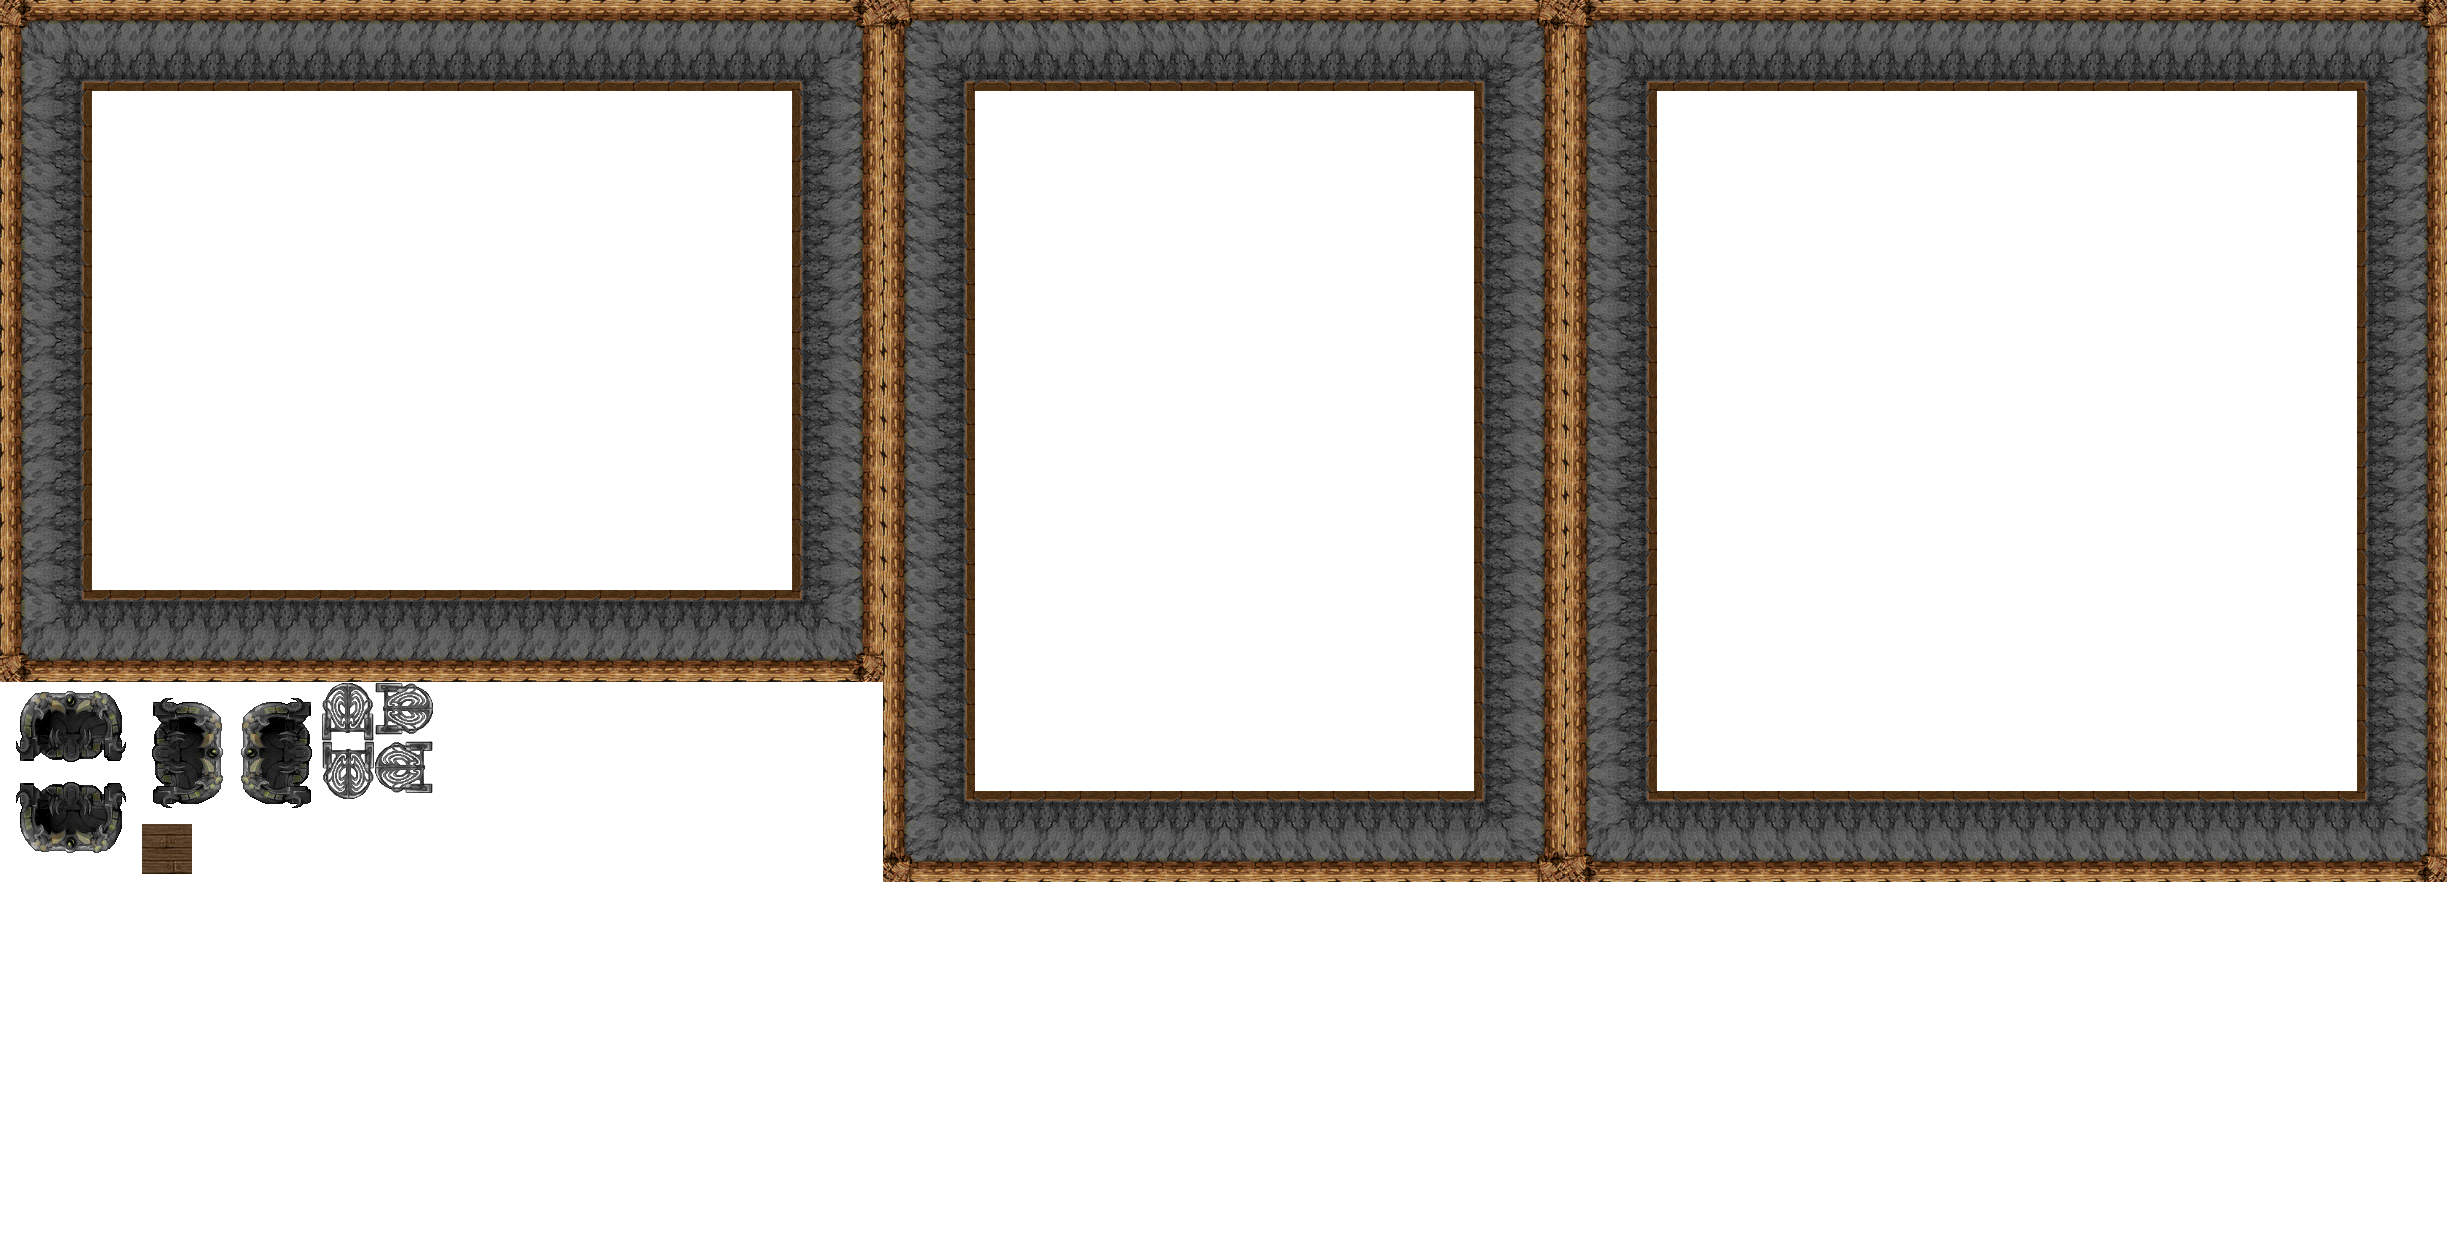
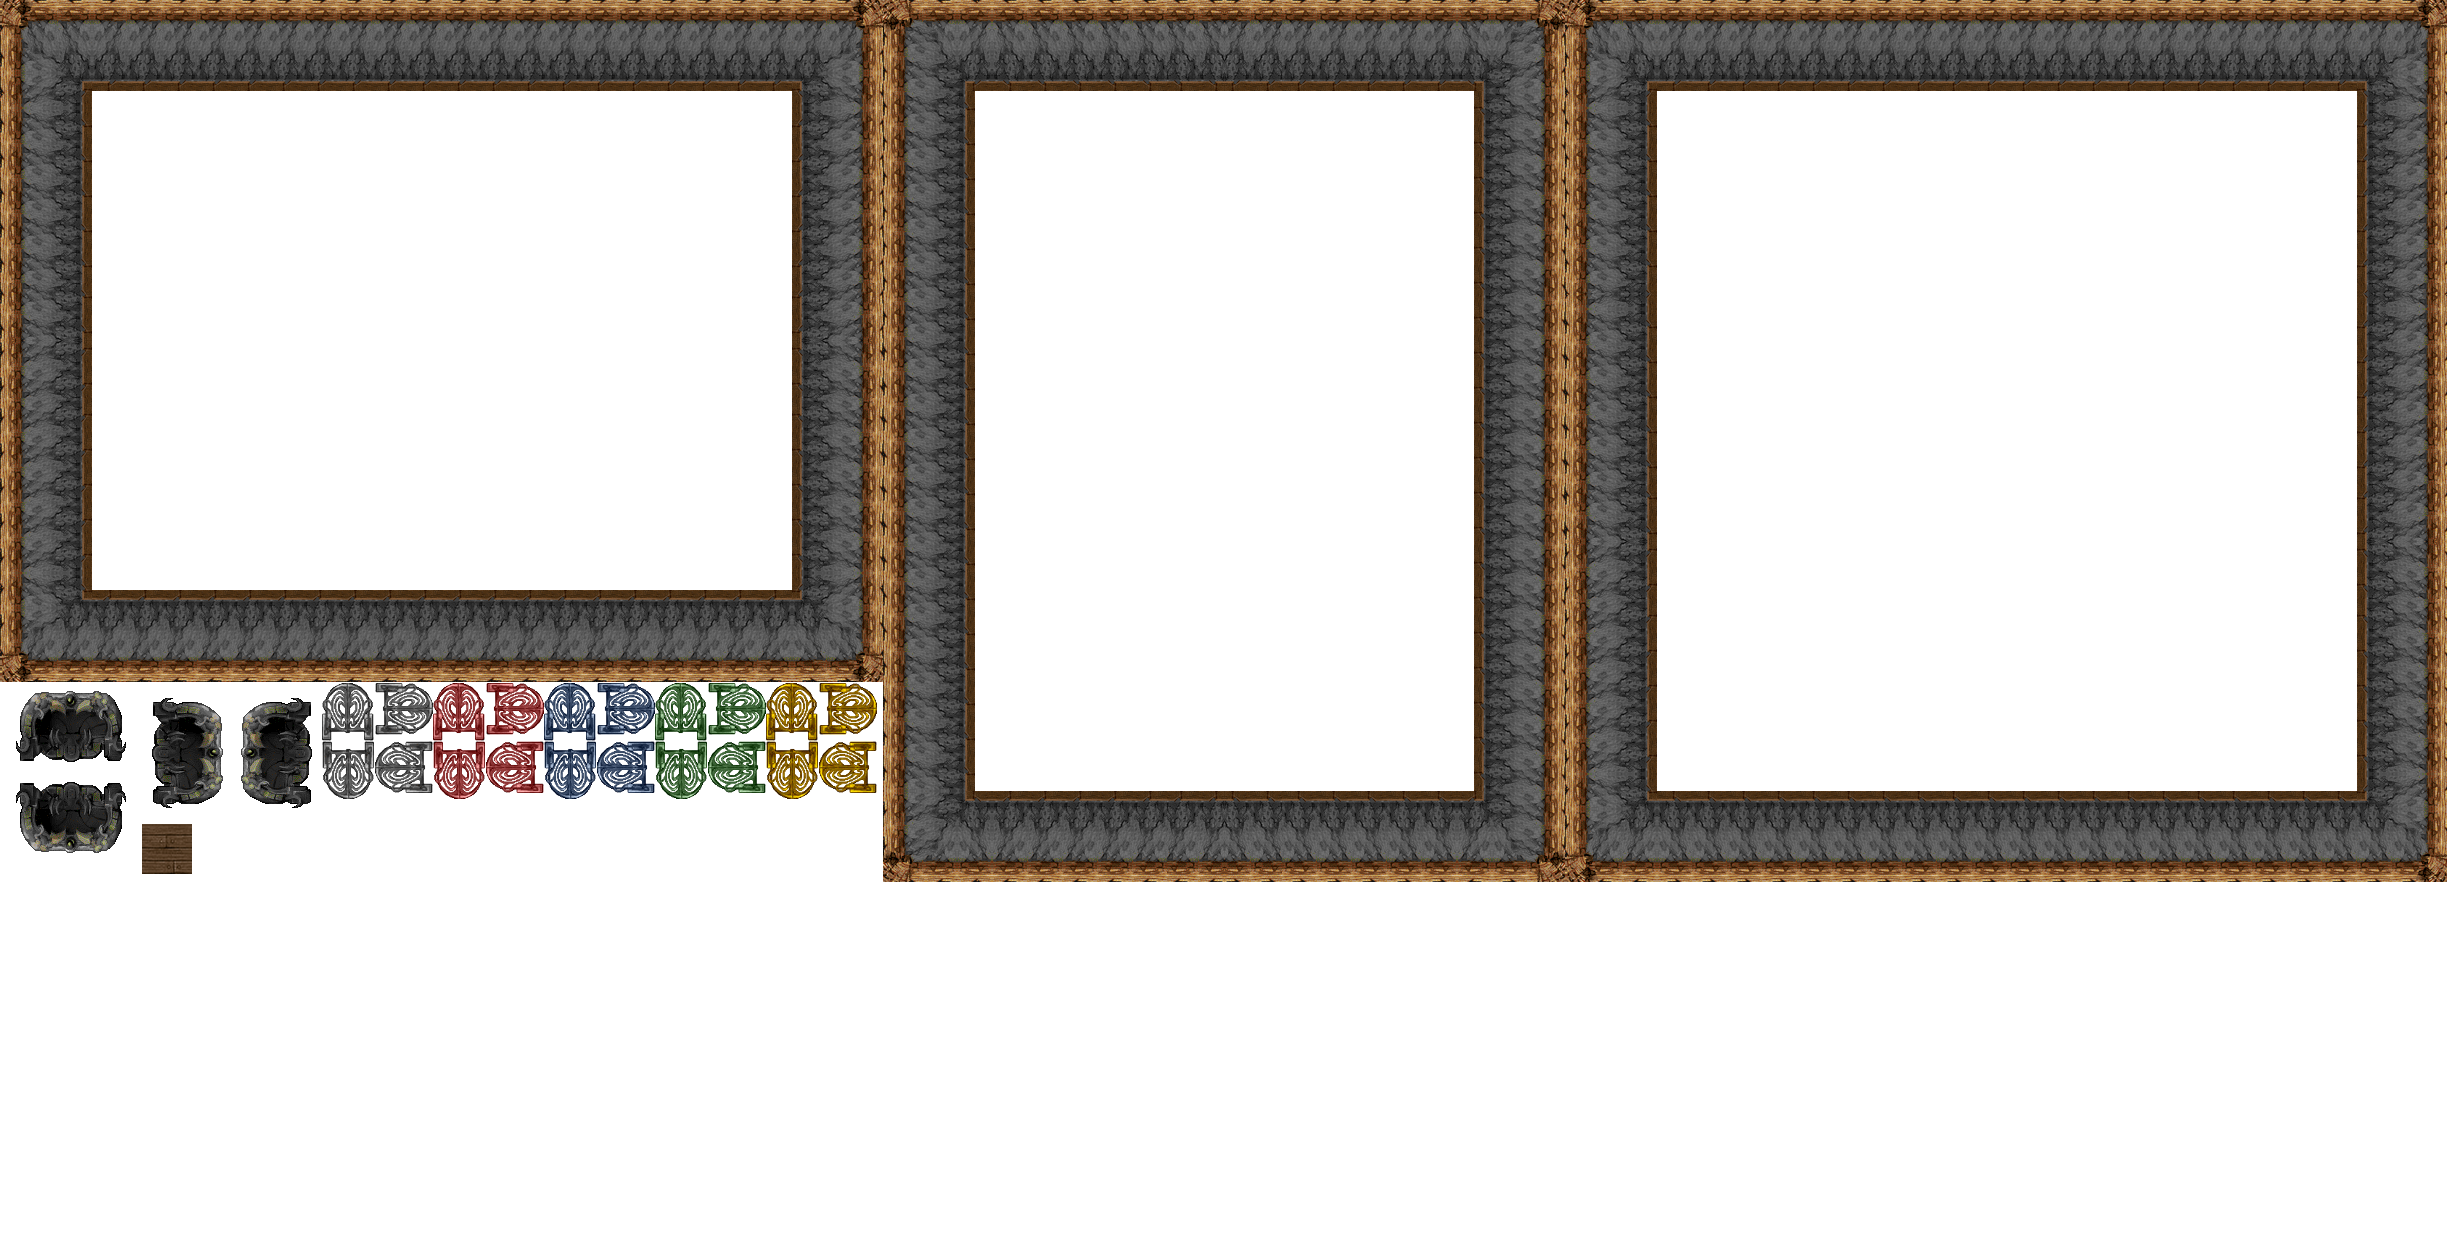
koukou

Changed region(s): [[0.1552, 0.5312, 0.3725, 0.6562]]

diff --git a/public_html/files/javascript/canvas.draw.js b/public_html/files/javascript/canvas.draw.js
@@ -20,34 +20,17 @@ function drawMap(map) {
     roomX = Game.canvas.width / 2 - (map[player.room].width / 2);
     roomY = Game.canvas.height / 2 - (map[player.room].height / 2);
     player.roomInfo = [roomX, roomY, map[player.room].width, map[player.room].height];
-    Game.context.beginPath();
-    Game.context.rect(roomX, roomY, map[player.room].width, map[player.room].height);
+
+    //Game.context.beginPath();
+    //Game.context.rect(roomX, roomY, map[player.room].width, map[player.room].height);
     map[player.room].objects.forEach(function(entry) {
-        Game.context.beginPath();
+        //Game.context.beginPath();
         Game.context.drawImage(ImagesSprites[entry.type], entry.x, entry.y, entry.width, entry.height);
     });
     map[player.room].doors.forEach(function(entry) {
-        Game.context.beginPath();
-        var x = 0;
-        var y = 0;
-        switch (entry.color) {
-            case RED:
-                Game.context.fillStyle = "#b20000";
-                break;
-            case BLUE:
-                Game.context.fillStyle = "#96CDCD";
-                break;
-            case GREEN:
-                Game.context.fillStyle = "#458B00";
-                break;
-            case YELLOW:
-                Game.context.fillStyle = "yellow";
-                break;
-            case null:
-                Game.context.fillStyle = "white";
-                break;
-        }
-
+        //Game.context.beginPath();
+        // var x = 0;
+        // var y = 0;
         var lock = {
             'height': 58,
             'width': 53
@@ -65,10 +48,24 @@ function drawMap(map) {
                  Game.context.rect(entry.x, entry.y, entry.width, entry.height);
                  Game.context.fill();
                  */
-
                 if (entry.lock) {
-                    Game.context.drawImage(Images['border_door_ground'], 322, 683, lock.width, lock.height, entry.x + (lock.width / 2), entry.y - (lock.height / 2) - 5, lock.width, lock.height);
-
+                    switch (entry.color) {
+                        case RED:
+                            Game.context.drawImage(Images['border_door_ground'], 433, 683, lock.width, lock.height, entry.x + (lock.width / 2), entry.y - (lock.height / 2) - 5, lock.width, lock.height);
+                            break;
+                        case BLUE:
+                            Game.context.drawImage(Images['border_door_ground'], 544, 683, lock.width, lock.height, entry.x + (lock.width / 2), entry.y - (lock.height / 2) - 5, lock.width, lock.height);
+                            break;
+                        case GREEN:
+                            Game.context.drawImage(Images['border_door_ground'], 655, 683, lock.width, lock.height, entry.x + (lock.width / 2), entry.y - (lock.height / 2) - 5, lock.width, lock.height);
+                            break;
+                        case YELLOW:
+                            Game.context.drawImage(Images['border_door_ground'], 766, 683, lock.width, lock.height, entry.x + (lock.width / 2), entry.y - (lock.height / 2) - 5, lock.width, lock.height);
+                            break;
+                        case null:
+                            Game.context.drawImage(Images['border_door_ground'], 322, 683, lock.width, lock.height, entry.x + (lock.width / 2), entry.y - (lock.height / 2) - 5, lock.width, lock.height);
+                            break;
+                    }
                     /*
                      Game.context.beginPath();
                      Game.context.rect(x + 7, y - 48, 5, 48);
@@ -80,20 +77,33 @@ function drawMap(map) {
                 }
                 break;
             case LEFT:
-
                 Game.context.drawImage(Images['border_door_ground'], 233, 683, 85, 140, entry.imgX, entry.imgY, entry.imgwidth, entry.imgHeight);
-
                 /* HITZONE
                  Game.context.beginPath();
                  Game.context.fillStyle = "pink";
                  Game.context.rect(entry.x, entry.y, entry.width, entry.height);
                  Game.context.fill();
                  */
-
                 if (entry.lock) {
-                    Game.context.drawImage(Images['border_door_ground'], 375, 741, lock.height, lock.width, entry.x - (lock.height / 2), entry.y + (lock.width / 2), lock.height, lock.width);
+                    switch (entry.color) {
+                        case RED:
+                            Game.context.drawImage(Images['border_door_ground'], 486, 741, lock.height, lock.width, entry.x - (lock.height / 2), entry.y + (lock.width / 2), lock.height, lock.width);
+                            break;
+                        case BLUE:
+                            Game.context.drawImage(Images['border_door_ground'], 597, 741, lock.height, lock.width, entry.x - (lock.height / 2), entry.y + (lock.width / 2), lock.height, lock.width);
+                            break;
+                        case GREEN:
+                            Game.context.drawImage(Images['border_door_ground'], 708, 741, lock.height, lock.width, entry.x - (lock.height / 2), entry.y + (lock.width / 2), lock.height, lock.width);
+                            break;
+                        case YELLOW:
+                            Game.context.drawImage(Images['border_door_ground'], 819, 741, lock.height, lock.width, entry.x - (lock.height / 2), entry.y + (lock.width / 2), lock.height, lock.width);
+                            break;
+                        case null:
+                            Game.context.drawImage(Images['border_door_ground'], 375, 741, lock.height, lock.width, entry.x - (lock.height / 2), entry.y + (lock.width / 2), lock.height, lock.width);
+                            break;
+                    }
                     /*
-                     *  y = roomY + (map[player.room].height / 2) - (entry.height / 2);
+                     y = roomY + (map[player.room].height / 2) - (entry.height / 2);
                      x = roomX;
                      Game.context.beginPath();
                      Game.context.rect(x - 49, y + 13, 47, 5);
@@ -114,10 +124,25 @@ function drawMap(map) {
                  Game.context.rect(entry.x, entry.y, entry.width, entry.height);
                  Game.context.fill();
                  */
-
                 if (entry.lock) {
 
-                    Game.context.drawImage(Images['border_door_ground'], 322, 741, 53, 58, entry.x + (lock.width / 2), entry.y, lock.width, lock.height);
+                    switch (entry.color) {
+                        case RED:
+                            Game.context.drawImage(Images['border_door_ground'], 433, 741, 53, 58, entry.x + (lock.width / 2), entry.y, lock.width, lock.height);
+                            break;
+                        case BLUE:
+                            Game.context.drawImage(Images['border_door_ground'], 544, 741, 53, 58, entry.x + (lock.width / 2), entry.y, lock.width, lock.height);
+                            break;
+                        case GREEN:
+                            Game.context.drawImage(Images['border_door_ground'], 655, 741, 53, 58, entry.x + (lock.width / 2), entry.y, lock.width, lock.height);
+                            break;
+                        case YELLOW:
+                            Game.context.drawImage(Images['border_door_ground'], 766, 741, 53, 58, entry.x + (lock.width / 2), entry.y, lock.width, lock.height);
+                            break;
+                        case null:
+                            Game.context.drawImage(Images['border_door_ground'], 322, 741, 53, 58, entry.x + (lock.width / 2), entry.y, lock.width, lock.height);
+                            break;
+                    }
                     /*
                      * y = roomY + map[player.room].height - entry.height;
                      x = roomX + (map[player.room].width / 2) - (entry.width / 2);
@@ -131,9 +156,7 @@ function drawMap(map) {
                 }
                 break;
             case RIGHT:
-
                 Game.context.drawImage(Images['border_door_ground'], 142, 683, 91, 140, entry.imgX, entry.imgY, entry.imgwidth, entry.imgHeight);
-
                 /* HITZONE
                  Game.context.beginPath();
                  Game.context.fillStyle = "pink";
@@ -141,7 +164,23 @@ function drawMap(map) {
                  Game.context.fill();
                  */
                 if (entry.lock) {
-                    Game.context.drawImage(Images['border_door_ground'], 375, 683, lock.height, lock.width, entry.x, entry.y + (lock.width / 2), lock.height, lock.width);
+                    switch (entry.color) {
+                        case RED:
+                            Game.context.drawImage(Images['border_door_ground'], 486, 683, lock.height, lock.width, entry.x, entry.y + (lock.width / 2), lock.height, lock.width);
+                            break;
+                        case BLUE:
+                            Game.context.drawImage(Images['border_door_ground'], 597, 683, lock.height, lock.width, entry.x, entry.y + (lock.width / 2), lock.height, lock.width);
+                            break;
+                        case GREEN:
+                            Game.context.drawImage(Images['border_door_ground'], 708, 683, lock.height, lock.width, entry.x, entry.y + (lock.width / 2), lock.height, lock.width);
+                            break;
+                        case YELLOW:
+                            Game.context.drawImage(Images['border_door_ground'], 819, 683, lock.height, lock.width, entry.x, entry.y + (lock.width / 2), lock.height, lock.width);
+                            break;
+                        case null:
+                            Game.context.drawImage(Images['border_door_ground'], 375, 683, lock.height, lock.width, entry.x, entry.y + (lock.width / 2), lock.height, lock.width);
+                            break;
+                    }
                     /*
                      y = roomY + (map[player.room].height / 2) - (entry.height / 2);
                      x = roomX + (map[player.room].width) - entry.width;
@@ -155,7 +194,7 @@ function drawMap(map) {
                 }
                 break;
         }
-        Game.context.fill();
+        //Game.context.fill();
     });
 }
 
@@ -195,5 +234,4 @@ function drawBorder() {
 
     if (player.roomInfo[2] == 700 && player.roomInfo[3] == 500) //LARGER
         Game.context.drawImage(Images['border_door_ground'], 0, 0, 884, 682, x - 92, y - 91, 884, 682);
-
 }
